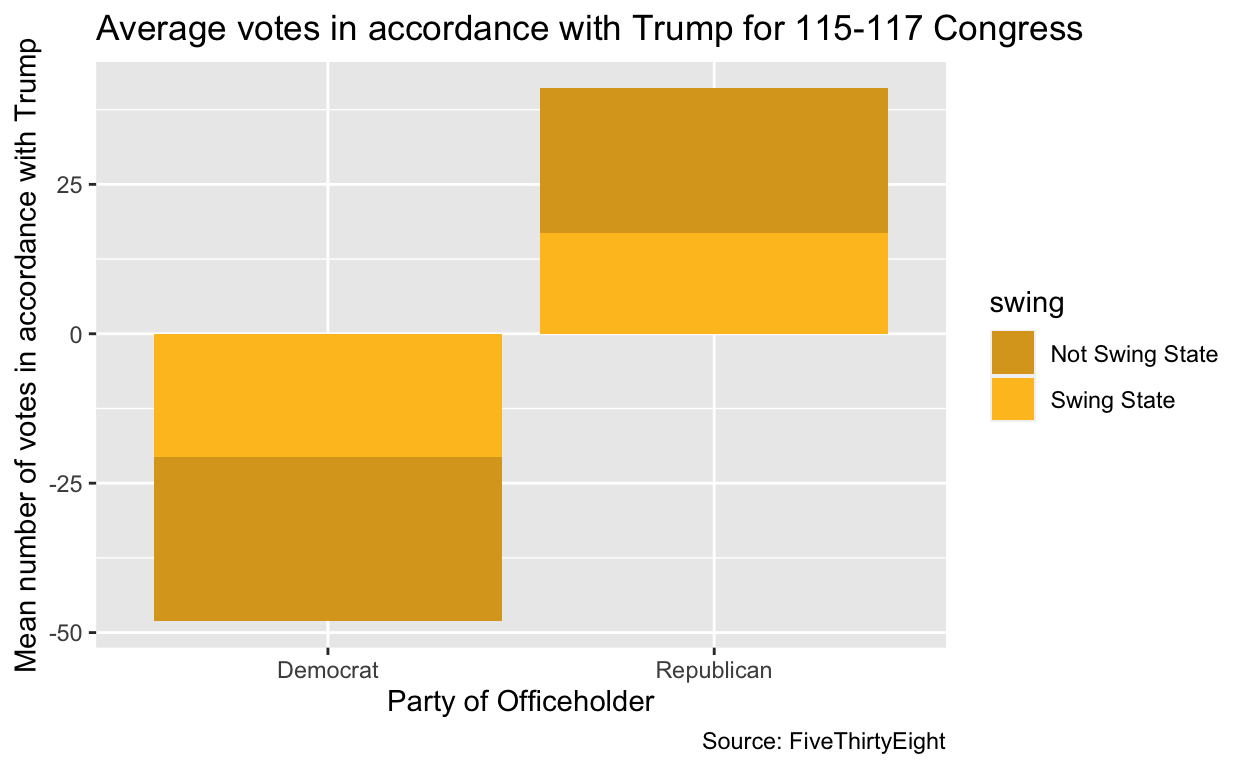
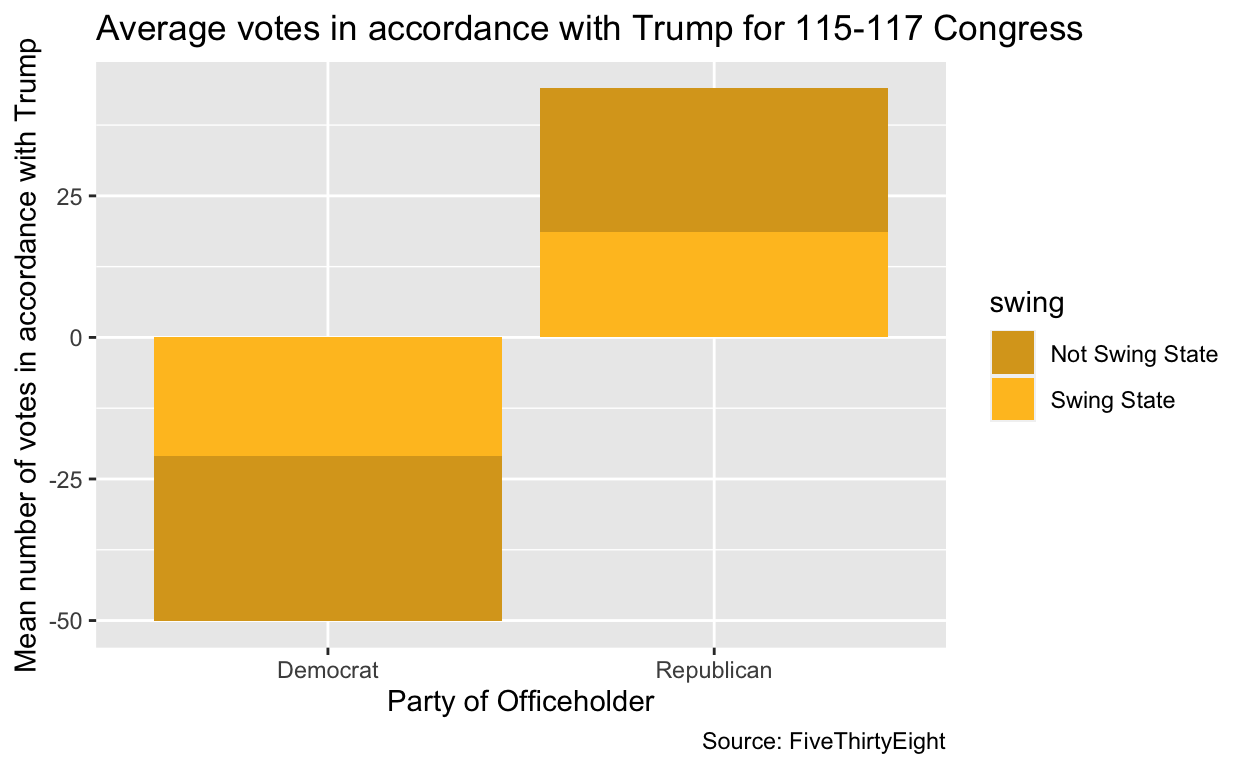
ms4 atmpt 2

diff --git a/index.html b/index.html
@@ -1579,12 +1579,19 @@ code span.wa { color: #5e5e5e; font-style: italic; } /* Warning */
 <span>  <span class='fu'><a href='https://dplyr.tidyverse.org/reference/mutate.html'>mutate</a></span><span class='op'>(</span>swing <span class='op'>=</span> <span class='fu'><a href='https://dplyr.tidyverse.org/reference/case_when.html'>case_when</a></span><span class='op'>(</span></span>
 <span>    <span class='va'>state</span> <span class='op'>==</span> <span class='st'>"FL"</span> <span class='op'>~</span> <span class='st'>"Swing State"</span>, </span>
 <span>    <span class='va'>state</span> <span class='op'>==</span> <span class='st'>"NC"</span> <span class='op'>~</span> <span class='st'>"Swing State"</span>, </span>
-<span>    <span class='va'>state</span> <span class='op'>==</span> <span class='st'>"OH"</span> <span class='op'>~</span> <span class='st'>"Swing State"</span>, </span>
 <span>    <span class='va'>state</span> <span class='op'>==</span> <span class='st'>"NV"</span> <span class='op'>~</span> <span class='st'>"Swing State"</span>, </span>
 <span>    <span class='va'>state</span> <span class='op'>==</span> <span class='st'>"PA"</span> <span class='op'>~</span> <span class='st'>"Swing State"</span>,</span>
 <span>    <span class='va'>state</span> <span class='op'>==</span> <span class='st'>"MI"</span> <span class='op'>~</span> <span class='st'>"Swing State"</span>,</span>
 <span>    <span class='va'>state</span> <span class='op'>==</span> <span class='st'>"WI"</span> <span class='op'>~</span> <span class='st'>"Swing State"</span>,</span>
-<span>    <span class='va'>state</span> <span class='op'>==</span> <span class='st'>"AZ"</span> <span class='op'>~</span> <span class='st'>"Swing State"</span></span>
+<span>    <span class='va'>state</span> <span class='op'>==</span> <span class='st'>"AZ"</span> <span class='op'>~</span> <span class='st'>"Swing State"</span>,</span>
+<span>    <span class='va'>state</span> <span class='op'>==</span> <span class='st'>"NH"</span> <span class='op'>~</span> <span class='st'>"Swing State"</span>,</span>
+<span>    <span class='va'>state</span> <span class='op'>==</span> <span class='st'>"IA"</span> <span class='op'>~</span> <span class='st'>"Swing State"</span>,</span>
+<span>    <span class='va'>state</span> <span class='op'>==</span> <span class='st'>"GA"</span> <span class='op'>~</span> <span class='st'>"Swing State"</span>,</span>
+<span>    <span class='va'>state</span> <span class='op'>==</span> <span class='st'>"MN"</span> <span class='op'>~</span> <span class='st'>"Swing State"</span>,</span>
+<span>    <span class='va'>state</span> <span class='op'>==</span> <span class='st'>"CO"</span> <span class='op'>~</span> <span class='st'>"Swing State"</span>,</span>
+<span>    <span class='va'>state</span> <span class='op'>==</span> <span class='st'>"TX"</span> <span class='op'>~</span> <span class='st'>"Swing State"</span>,</span>
+<span>    <span class='va'>state</span> <span class='op'>==</span> <span class='st'>"OH"</span> <span class='op'>~</span> <span class='st'>"Swing State"</span>,</span>
+<span>    <span class='va'>state</span> <span class='op'>==</span> <span class='st'>"VA"</span> <span class='op'>~</span> <span class='st'>"Swing State"</span>,</span>
 <span>  <span class='op'>)</span><span class='op'>)</span> <span class='op'>|&gt;</span></span>
 <span>  <span class='fu'><a href='https://dplyr.tidyverse.org/reference/mutate.html'>mutate</a></span><span class='op'>(</span>swing <span class='op'>=</span> <span class='fu'><a href='https://dplyr.tidyverse.org/reference/if_else.html'>if_else</a></span><span class='op'>(</span><span class='fu'><a href='https://rdrr.io/r/base/NA.html'>is.na</a></span><span class='op'>(</span><span class='va'>swing</span><span class='op'>)</span>, <span class='st'>"Not Swing State"</span>, <span class='st'>"Swing State"</span><span class='op'>)</span><span class='op'>)</span> <span class='op'>|&gt;</span></span>
 <span>  <span class='fu'><a href='https://dplyr.tidyverse.org/reference/mutate.html'>mutate</a></span><span class='op'>(</span>party <span class='op'>=</span> <span class='fu'><a href='https://dplyr.tidyverse.org/reference/case_when.html'>case_when</a></span><span class='op'>(</span></span>
@@ -1601,6 +1608,8 @@ code span.wa { color: #5e5e5e; font-style: italic; } /* Warning */
 <span>  <span class='fu'><a href='https://rdrr.io/r/base/subset.html'>subset</a></span><span class='op'>(</span><span class='va'>party</span> <span class='op'>==</span> <span class='st'>"Democrat"</span> <span class='op'>|</span> <span class='va'>party</span> <span class='op'>==</span> <span class='st'>"Republican"</span><span class='op'>)</span></span></code></pre>
 </div>
 </div>
+<p>In this chunk, I first made a new variable which denotes whether a state is a swing state or not swing state by the standards of the 2020 Presidential election. For this, I used the states that CNN Politics considered battlegrounds, regardless of margin. I then mutated the party names to standardize them, as some were full party names and some were abbreviated. I dropped all rows without a net Trump vote score, as that is the variable of interest. Finally, I subsetted this data to only include Democrats and Republicans, as both Independents and Libertarians had too few representatives, and these amounts fluctuated across congresses and swing states/not swing states, that I couldn’t conclude much from them.</p>
+<p>I am using the net Trump vote of each legislator to gather my conclusions. This is the difference of the amount of times a legislator in the House has voted with and against Trump’s position on legislation.</p>
 <div class="layout-chunk" data-layout="l-body">
 <div class="sourceCode">
 <pre class="sourceCode r"><code class="sourceCode r"><span><span class='va'>DiM_party</span><span class='op'>&lt;-</span><span class='va'>averages</span> <span class='op'>|&gt;</span></span>
@@ -1611,13 +1620,13 @@ code span.wa { color: #5e5e5e; font-style: italic; } /* Warning */
 <span>    values_from <span class='op'>=</span> <span class='va'>mean_ntv</span></span>
 <span>  <span class='op'>)</span></span>
 <span></span>
-<span><span class='fu'>knitr</span><span class='fu'>::</span><span class='fu'><a href='https://rdrr.io/pkg/knitr/man/kable.html'>kable</a></span><span class='op'>(</span><span class='va'>DiM_party</span><span class='op'>)</span></span></code></pre>
+<span><span class='fu'>knitr</span><span class='fu'>::</span><span class='fu'><a href='https://rdrr.io/pkg/knitr/man/kable.html'>kable</a></span><span class='op'>(</span><span class='va'>DiM_party</span>, col.names <span class='op'>=</span> <span class='fu'><a href='https://rdrr.io/r/base/c.html'>c</a></span><span class='op'>(</span><span class='st'>"Avg. net Trump vote, Democrats"</span>, <span class='st'>"Avg. net Trump vote, Republicans"</span><span class='op'>)</span><span class='op'>)</span></span></code></pre>
 </div>
 <table>
 <thead>
 <tr class="header">
-<th style="text-align: right;">Democrat</th>
-<th style="text-align: right;">Republican</th>
+<th style="text-align: right;">Avg. net Trump vote, Democrats</th>
+<th style="text-align: right;">Avg. net Trump vote, Republicans</th>
 </tr>
 </thead>
 <tbody>
@@ -1641,36 +1650,45 @@ code span.wa { color: #5e5e5e; font-style: italic; } /* Warning */
 <pre><code># A tibble: 2 × 4
   party      `Not Swing State` `Swing State` ntv_diff
   &lt;chr&gt;                  &lt;dbl&gt;         &lt;dbl&gt;    &lt;dbl&gt;
-1 Democrat               -27.5         -20.5     6.97
-2 Republican              24.1          16.9    -7.18</code></pre>
+1 Democrat               -29.1         -21.0     8.15
+2 Republican              25.4          18.6    -6.76</code></pre>
 <div class="sourceCode">
-<pre class="sourceCode r"><code class="sourceCode r"><span><span class='fu'>knitr</span><span class='fu'>::</span><span class='fu'><a href='https://rdrr.io/pkg/knitr/man/kable.html'>kable</a></span><span class='op'>(</span><span class='va'>DiM_swing</span><span class='op'>)</span></span></code></pre>
+<pre class="sourceCode r"><code class="sourceCode r"><span><span class='fu'>knitr</span><span class='fu'>::</span><span class='fu'><a href='https://rdrr.io/pkg/knitr/man/kable.html'>kable</a></span><span class='op'>(</span><span class='va'>DiM_swing</span>, col.names <span class='op'>=</span> <span class='fu'><a href='https://rdrr.io/r/base/c.html'>c</a></span><span class='op'>(</span><span class='st'>"Party"</span>, <span class='st'>"Avg. Trump Vote, non-swing states"</span>, <span class='st'>"Avg. Trump Vote, swing states"</span>, <span class='st'>"Net Trump Vote Difference"</span><span class='op'>)</span><span class='op'>)</span></span></code></pre>
 </div>
 <table>
+<colgroup>
+<col style="width: 10%" />
+<col style="width: 33%" />
+<col style="width: 29%" />
+<col style="width: 25%" />
+</colgroup>
 <thead>
 <tr class="header">
-<th style="text-align: left;">party</th>
-<th style="text-align: right;">Not Swing State</th>
-<th style="text-align: right;">Swing State</th>
-<th style="text-align: right;">ntv_diff</th>
+<th style="text-align: left;">Party</th>
+<th style="text-align: right;">Avg. Trump Vote, non-swing states</th>
+<th style="text-align: right;">Avg. Trump Vote, swing states</th>
+<th style="text-align: right;">Net Trump Vote Difference</th>
 </tr>
 </thead>
 <tbody>
 <tr class="odd">
 <td style="text-align: left;">Democrat</td>
-<td style="text-align: right;">-27.51916</td>
-<td style="text-align: right;">-20.54930</td>
-<td style="text-align: right;">6.969866</td>
+<td style="text-align: right;">-29.12091</td>
+<td style="text-align: right;">-20.96842</td>
+<td style="text-align: right;">8.152486</td>
 </tr>
 <tr class="even">
 <td style="text-align: left;">Republican</td>
-<td style="text-align: right;">24.11218</td>
-<td style="text-align: right;">16.93344</td>
-<td style="text-align: right;">-7.178738</td>
+<td style="text-align: right;">25.36619</td>
+<td style="text-align: right;">18.60211</td>
+<td style="text-align: right;">-6.764082</td>
 </tr>
 </tbody>
 </table>
 </div>
+<p>In the first tibble, which is the 1x2 knitted tibble, I measured the average net Trump vote across all legislators of the Democratic and Republican parties. The average net Trump vote is -26.12 across all Democratic legislators, while the net Trump vote for Republican legislators is 22.17.</p>
+<p>In the second tibble, which is 2x4, candidates of each party are divided on whether they are from a swing or not swing state, with the difference between these groups reported as well. In this, we can see that Democrats in swing states, with an average net Trump vote of -20.97, is 8.15 units lower than those not frmo swing states who had an average of -29.12. We see a similar pattern among Republicans, as those in swing states had an average net Trump vote of 18.6, 6.76 units lower than the average net Trump vote of Republicans not from swing states, who had an average Trump vote of 25.37.</p>
+<p>In each party, we see that Democrats and Republicans from swing states have an average net Trump vote that is closer to 0, or a net Trump vote score that signifies equally voting with or against the Trump policy on a piece of legislation. This may be due to a desire to appeal to voters that are more ready to switch or run in districts that are decided by a smaller margin or pivotal group of swing voters.</p>
 <div class="layout-chunk" data-layout="l-body">
 <div class="sourceCode">
 <pre class="sourceCode r"><code class="sourceCode r"><span><span class='va'>averages</span> <span class='op'>|&gt;</span></span>
@@ -1688,6 +1706,8 @@ code span.wa { color: #5e5e5e; font-style: italic; } /* Warning */
 </div>
 <p><img src="index_files/figure-html5/unnamed-chunk-6-1.png" width="624" /></p>
 </div>
+<p>This graph is a visualization of my previous tibble measuring the net Trump vote for each major party across the swing states and not swing states, demonstrating how much closer to 0 the representatives from swing states tend to vote over members of the same party not from swing states.</p>
+<p>I think much of this may be affected by national environment, including which Congress they each data point is from, as they are from the 115th, 116th, and 117th Congresses. My next steps would be to examine the data similarly across each Congress.</p>
 <div class="sourceCode" id="cb3"><pre class="sourceCode r distill-force-highlighting-css"><code class="sourceCode r"></code></pre></div>
 <!--radix_placeholder_article_footer-->
 <!--/radix_placeholder_article_footer-->
